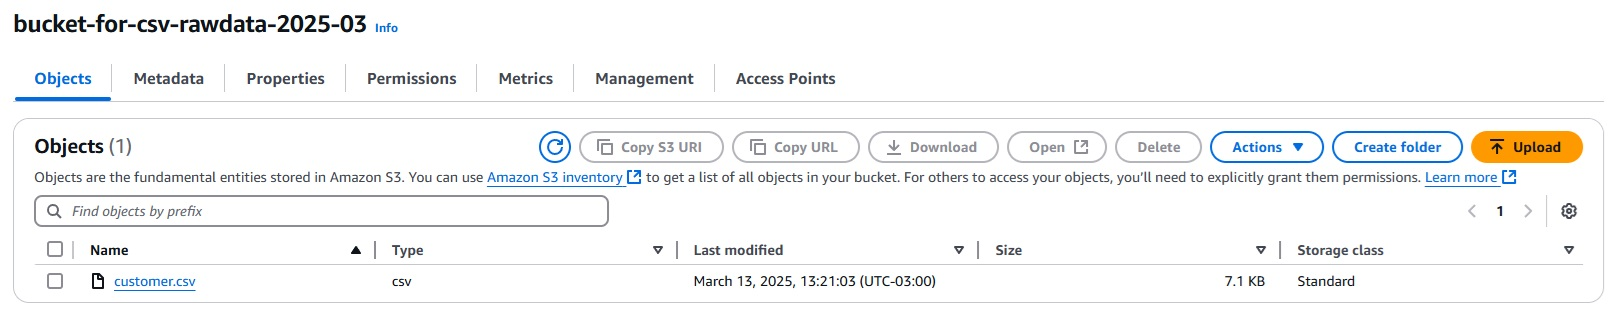
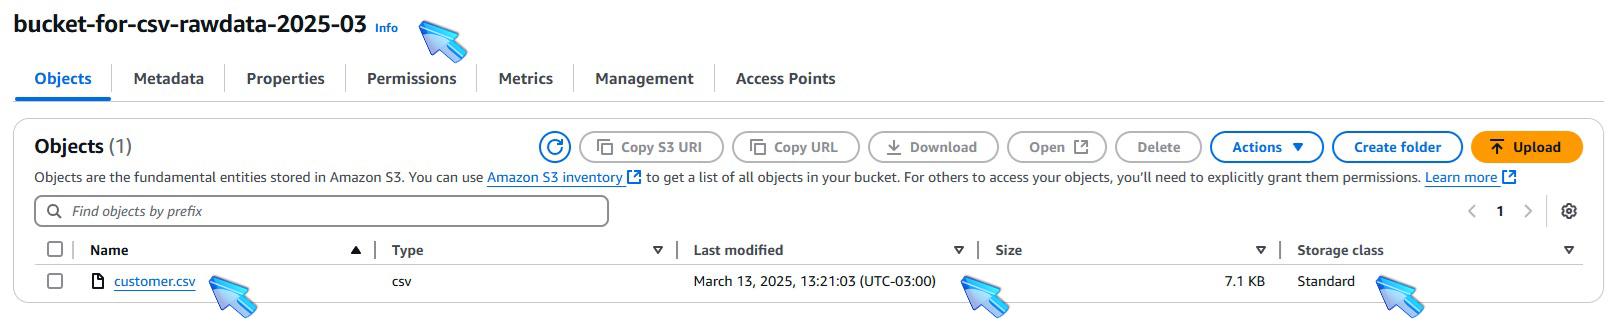
Update S3 upload documentation with new images and additional instructions

diff --git a/thisisthelab.md b/thisisthelab.md
@@ -49,7 +49,7 @@
 
 ![S3 Console](./images/1a-S3inConsoleA.jpg)
 
-# 2.1 - Amazon S3
+# 2.1 - Amazon S3 - Create Buckets 
 
 ###### ![Brazil](https://github.com/Acheroniano/flag-icon/blob/master/png/16/country-4x3/br.png "Brazil") 
 ##### ** Escolha a Região na AWS para criar dois buckets **
@@ -73,17 +73,30 @@
 ![S3 Create Bucket](./images/3a-S3CreateABucket.jpg)
 ![S3 Buckets Names](./images/4a-S3BucketsCriadosX.jpg)
 
-# 2.2 - Upload [![Files badge](https://img.shields.io/badge/customer.csv-%23000000?logo=Files&logoColor=yellow&labelColor=blue)](https://github.com/Acheroniano/aws-glue-crawlers-deepseek/blob/main/customer.csv)
+# 2.2 - Amazon S3 Upload [![Files badge](https://img.shields.io/badge/customer.csv-%23000000?logo=Files&logoColor=yellow&labelColor=blue)](https://github.com/Acheroniano/aws-glue-crawlers-deepseek/blob/main/customer.csv)
 
 ###### ![Brazil](https://github.com/Acheroniano/flag-icon/blob/master/png/16/country-4x3/br.png "Brazil") 
 ##### ** Clique no botão upload para escolher o arquivo [![Files badge](https://img.shields.io/badge/customer.csv-%23000000?logo=Files&logoColor=yellow&labelColor=blue)](https://github.com/Acheroniano/aws-glue-crawlers-deepseek/blob/main/customer.csv) **
 ##### - depois que escolher o arquivo e também após fazer o upload, algumas informações relevantes sobre ele aparecem na tela.
+##### - abra o bucket *bucket-for-csv-rawdata-2025-03* e confira o arquivo [![Files badge](https://img.shields.io/badge/customer.csv-%23000000?logo=Files&logoColor=yellow&labelColor=blue)](https://github.com/Acheroniano/aws-glue-crawlers-deepseek/blob/main/customer.csv) salvo no bucket.
 
 ###### ![United States](https://github.com/Acheroniano/flag-icon/blob/master/png/16/country-4x3/us.png "United States") 
 ##### ** Click on upload button to choose the file [![Files badge](https://img.shields.io/badge/customer.csv-%23000000?logo=Files&logoColor=yellow&labelColor=blue)](https://github.com/Acheroniano/aws-glue-crawlers-deepseek/blob/main/customer.csv) **
 ##### - after choosing the file and also after uploading, some relevant information appears on the screen.
+##### - open the bucket *bucket-for-csv-rawdata-2025-03* and check the file [![Files badge](https://img.shields.io/badge/customer.csv-%23000000?logo=Files&logoColor=yellow&labelColor=blue)](https://github.com/Acheroniano/aws-glue-crawlers-deepseek/blob/main/customer.csv) saved in the bucket.
 
 ![S3 Upload customer.csv](./images/5a-S3RawDataUpload.jpg)
 ![S3 Upload customer.csv info](./images/6a-S3CustomerCSV.jpg)
 ![S3 After Upload customer.csv info](./images/7a-S3CustomerCSVSuccess.jpg)
+![S3 customer.csv in the bucket](./images/8a-S3CustomerCSVSuccess2.jpg)
+
+# 3 - AWS Glue 
+
+###### ![Brazil](https://github.com/Acheroniano/flag-icon/blob/master/png/16/country-4x3/br.png "Brazil") 
+###### Abra o AWS GLUE
+
+###### ![United States](https://github.com/Acheroniano/flag-icon/blob/master/png/16/country-4x3/us.png "United States") 
+###### Open the AWS GLUE
+
+![AWS Glue](./images/9a-AWSGlueCalling.jpg)
 
